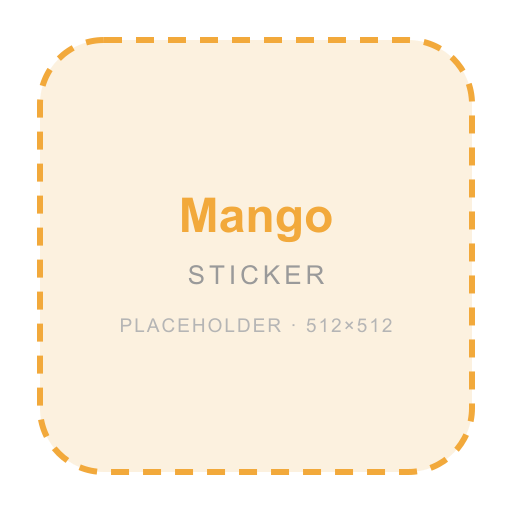
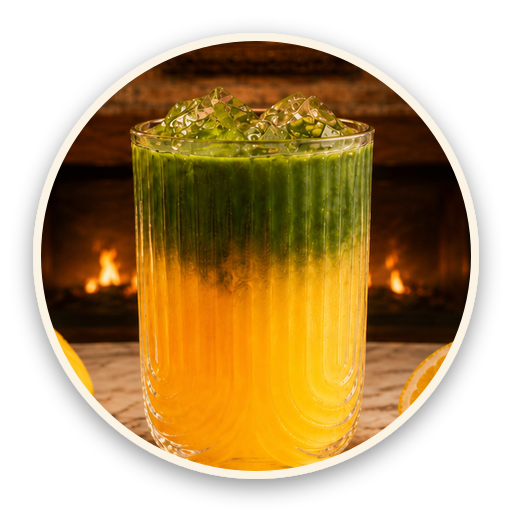
Activate seasonal drink stickers as game collectibles

diff --git a/src/config/theme.ts b/src/config/theme.ts
@@ -111,9 +111,9 @@ export const appTheme: ThemeConfig = {
       // current build uses tap-on-falling-items mechanics without an avatar.
       player: "/assets/colattao/logo/colattao-logo.png",
       goodItems: [
-        "/assets/colattao/items/coffee-cup.png",
-        "/assets/colattao/items/croissant.png",
-        "/assets/colattao/items/matcha-iced.png",
+        "/assets/colattao/game/stickers/original-sticker.png",
+        "/assets/colattao/game/stickers/strawberry-sticker.png",
+        "/assets/colattao/game/stickers/mango-sticker.png",
       ],
       badItems: [
         "/assets/colattao/items/seafarers-bad.png",